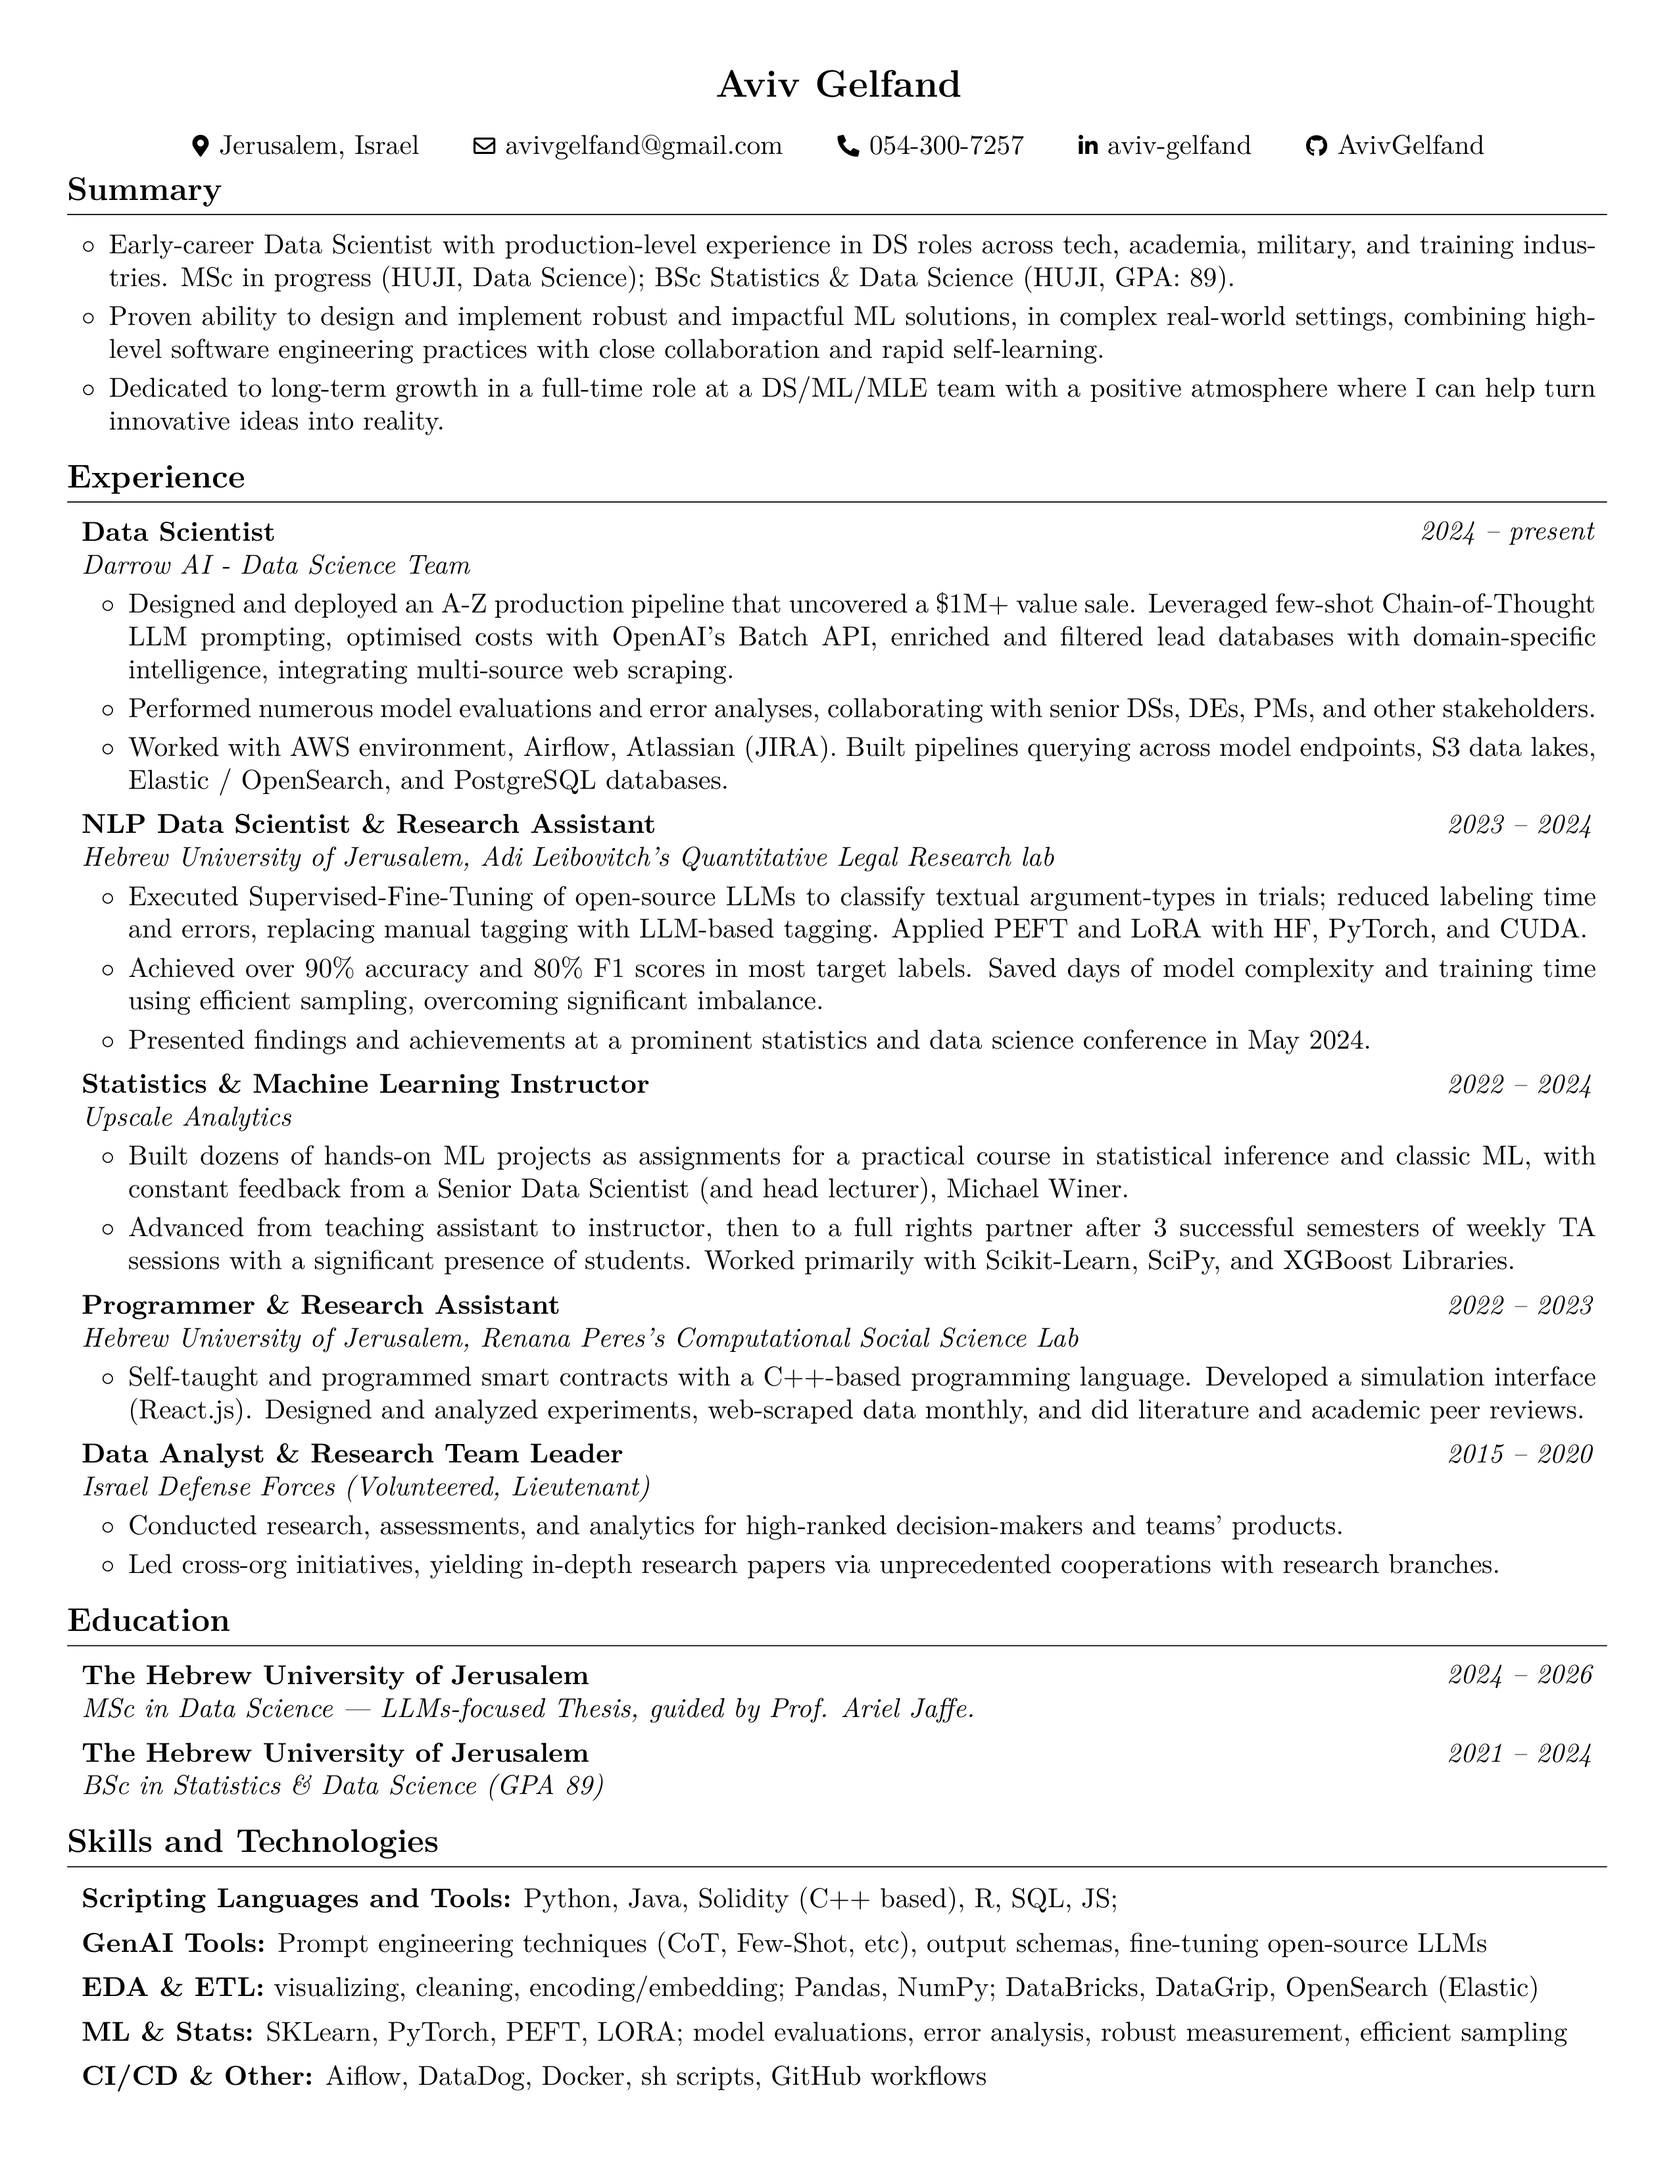
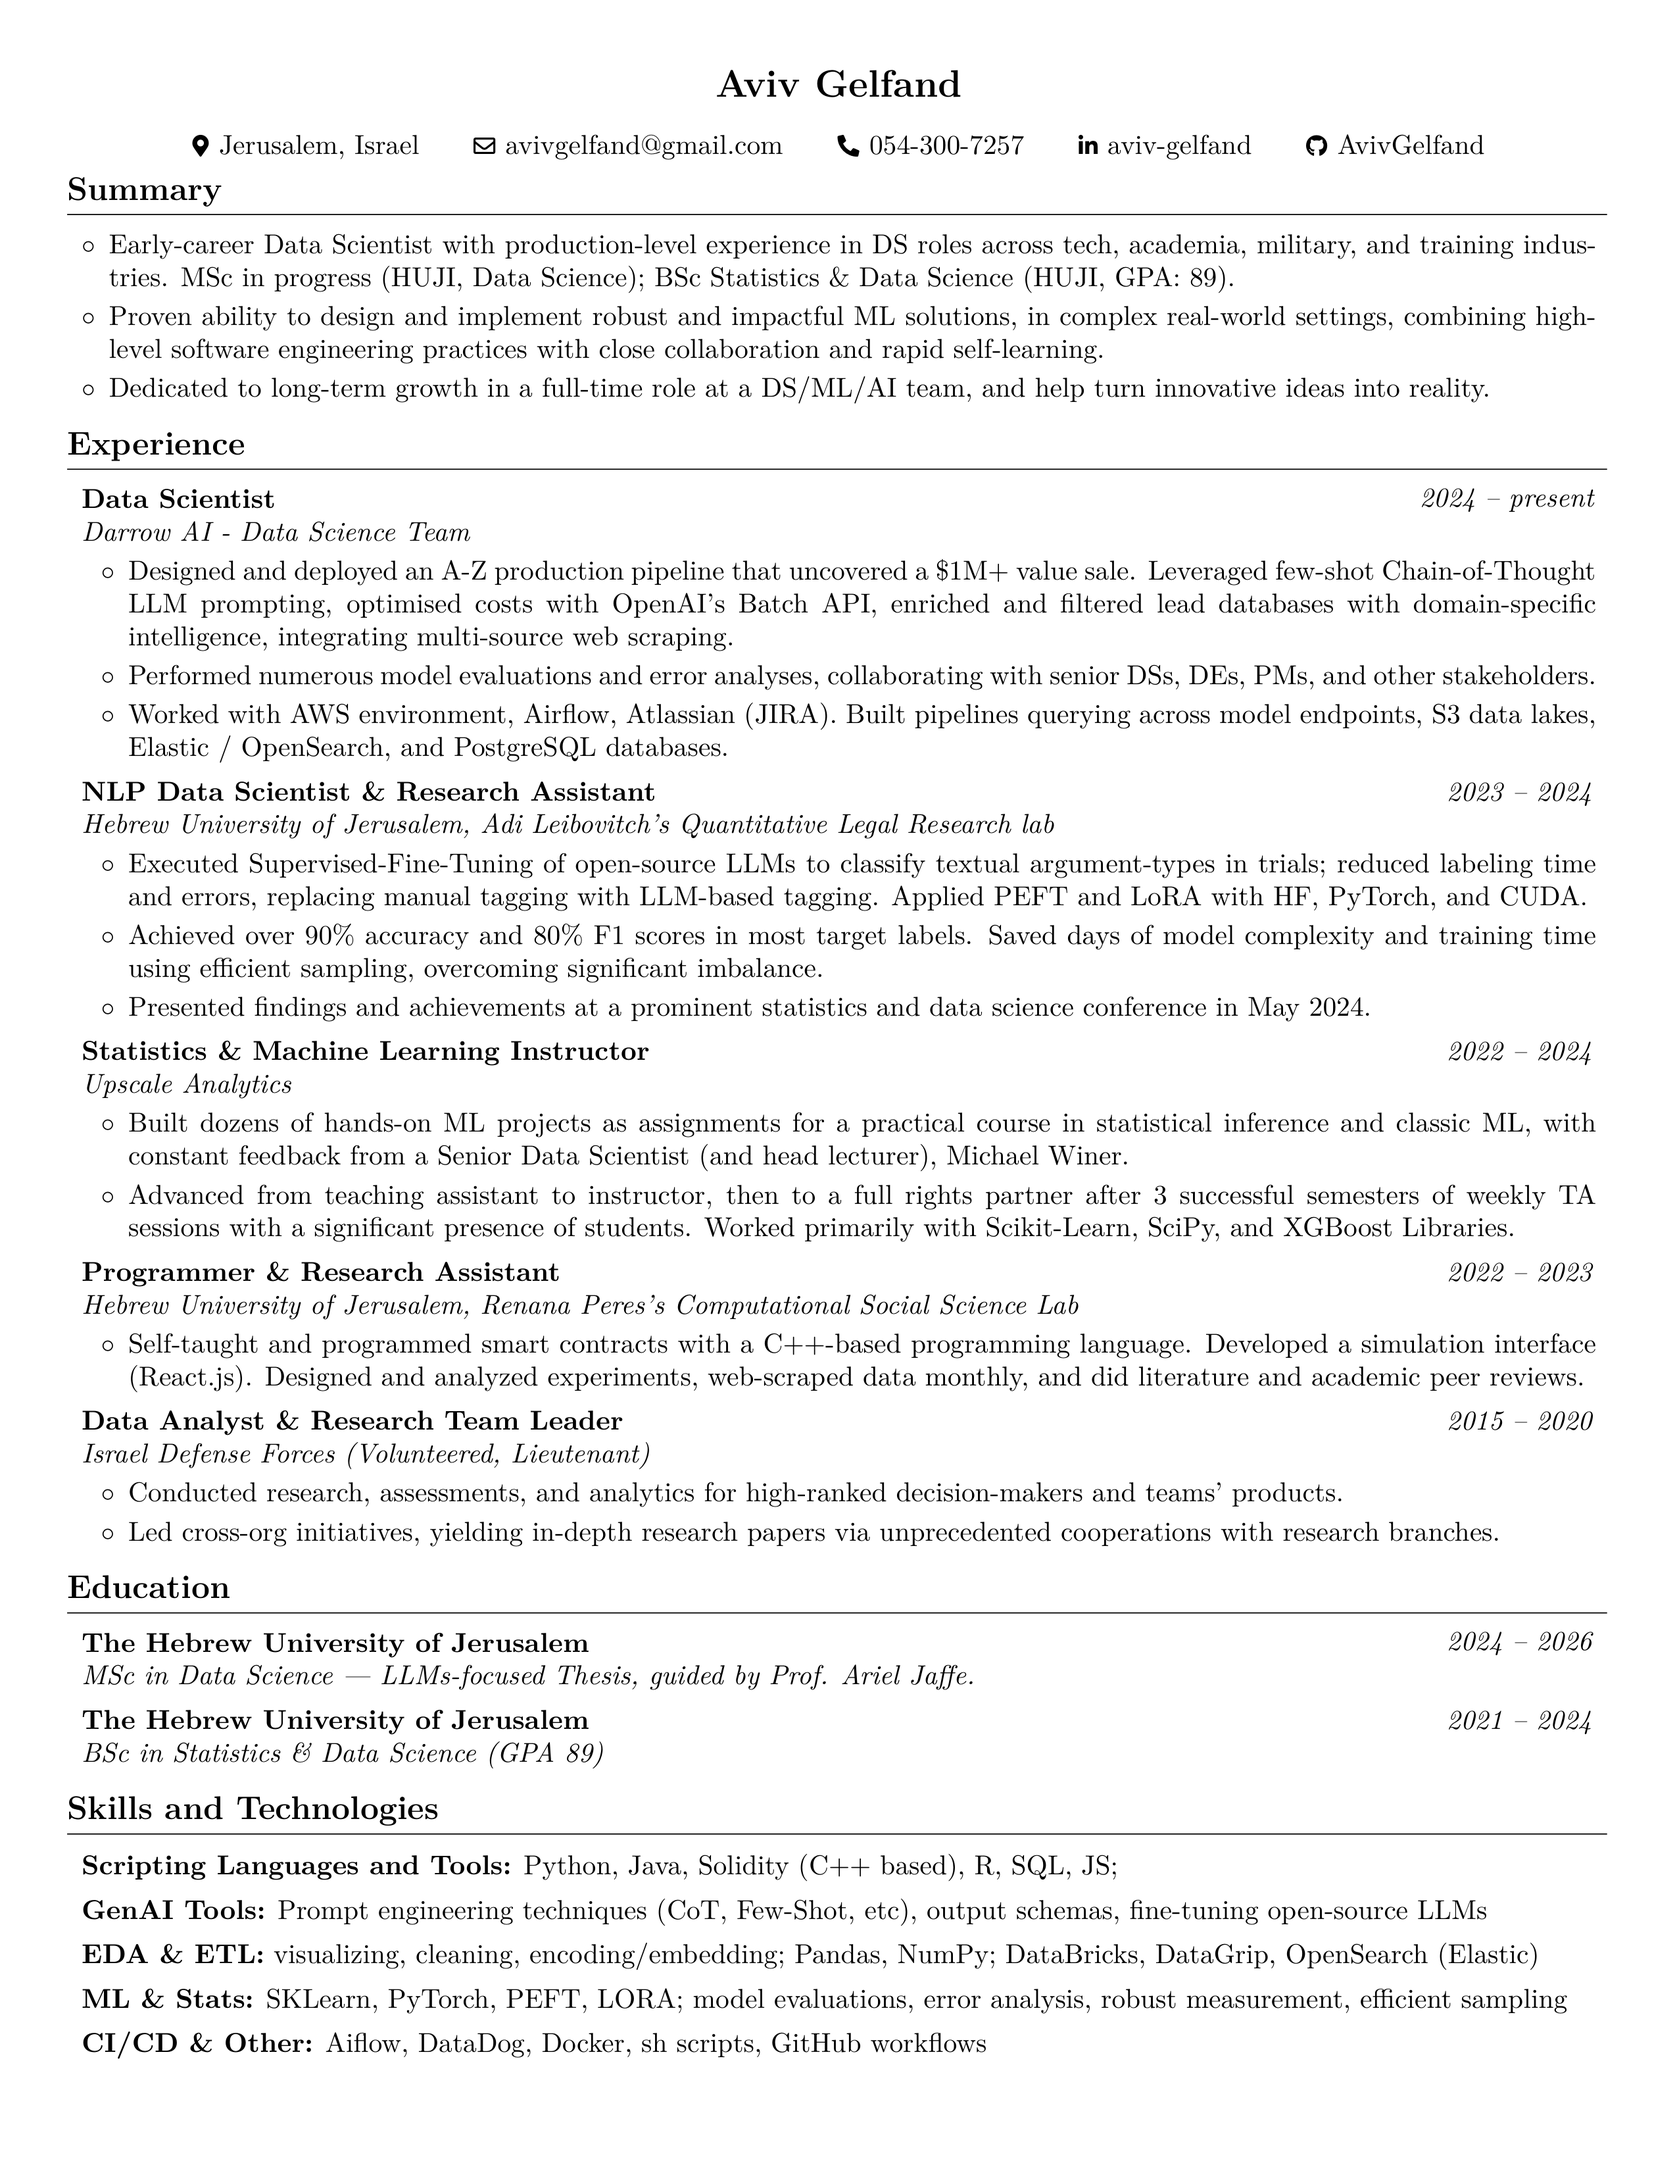
Render the latest CV

diff --git a/Aviv_Gelfand_CV.html b/Aviv_Gelfand_CV.html
@@ -44,7 +44,7 @@
         <ul>
         <li>Early-career Data Scientist with production-level experience in DS roles across tech, academia, military, and training industries. MSc in progress (HUJI, Data Science); BSc Statistics &amp; Data Science (HUJI, GPA: 89).</li>
         <li>Proven ability to design and implement robust and impactful ML solutions, in complex real-world settings, combining high-level software engineering practices with close collaboration and rapid self-learning.</li>
-        <li>Dedicated to long-term growth in a full-time role at a DS/ML/MLE team with a positive atmosphere where I can help turn innovative ideas into reality.</li>
+        <li>Dedicated to long-term growth in a full-time role at a DS/ML/AI team, and help turn innovative ideas into reality.</li>
         </ul>
         <h1>Experience</h1>
         <h2>Darrow AI - Data Science Team, Data Scientist</h2>

diff --git a/Aviv_Gelfand_CV.tex b/Aviv_Gelfand_CV.tex
@@ -185,7 +185,7 @@
 
         \item Proven ability to design and implement robust and impactful ML solutions, in complex real-world settings, combining high-level software engineering practices with close collaboration and rapid self-learning.
 
-        \item Dedicated to long-term growth in a full-time role at a DS/ML/MLE team with a positive atmosphere where I can help turn innovative ideas into reality.
+        \item Dedicated to long-term growth in a full-time role at a DS/ML/AI team, and help turn innovative ideas into reality.
 
 
         \end{highlightsforbulletentries}

diff --git a/README.md b/README.md
@@ -13,7 +13,7 @@
 
 - Early-career Data Scientist with production-level experience in DS roles across tech, academia, military, and training industries. MSc in progress (HUJI, Data Science); BSc Statistics & Data Science (HUJI, GPA: 89).
 - Proven ability to design and implement robust and impactful ML solutions, in complex real-world settings, combining high-level software engineering practices with close collaboration and rapid self-learning.
-- Dedicated to long-term growth in a full-time role at a DS/ML/MLE team with a positive atmosphere where I can help turn innovative ideas into reality.
+- Dedicated to long-term growth in a full-time role at a DS/ML/AI team, and help turn innovative ideas into reality.
 # Experience
 
 ## Darrow AI - Data Science Team, Data Scientist
